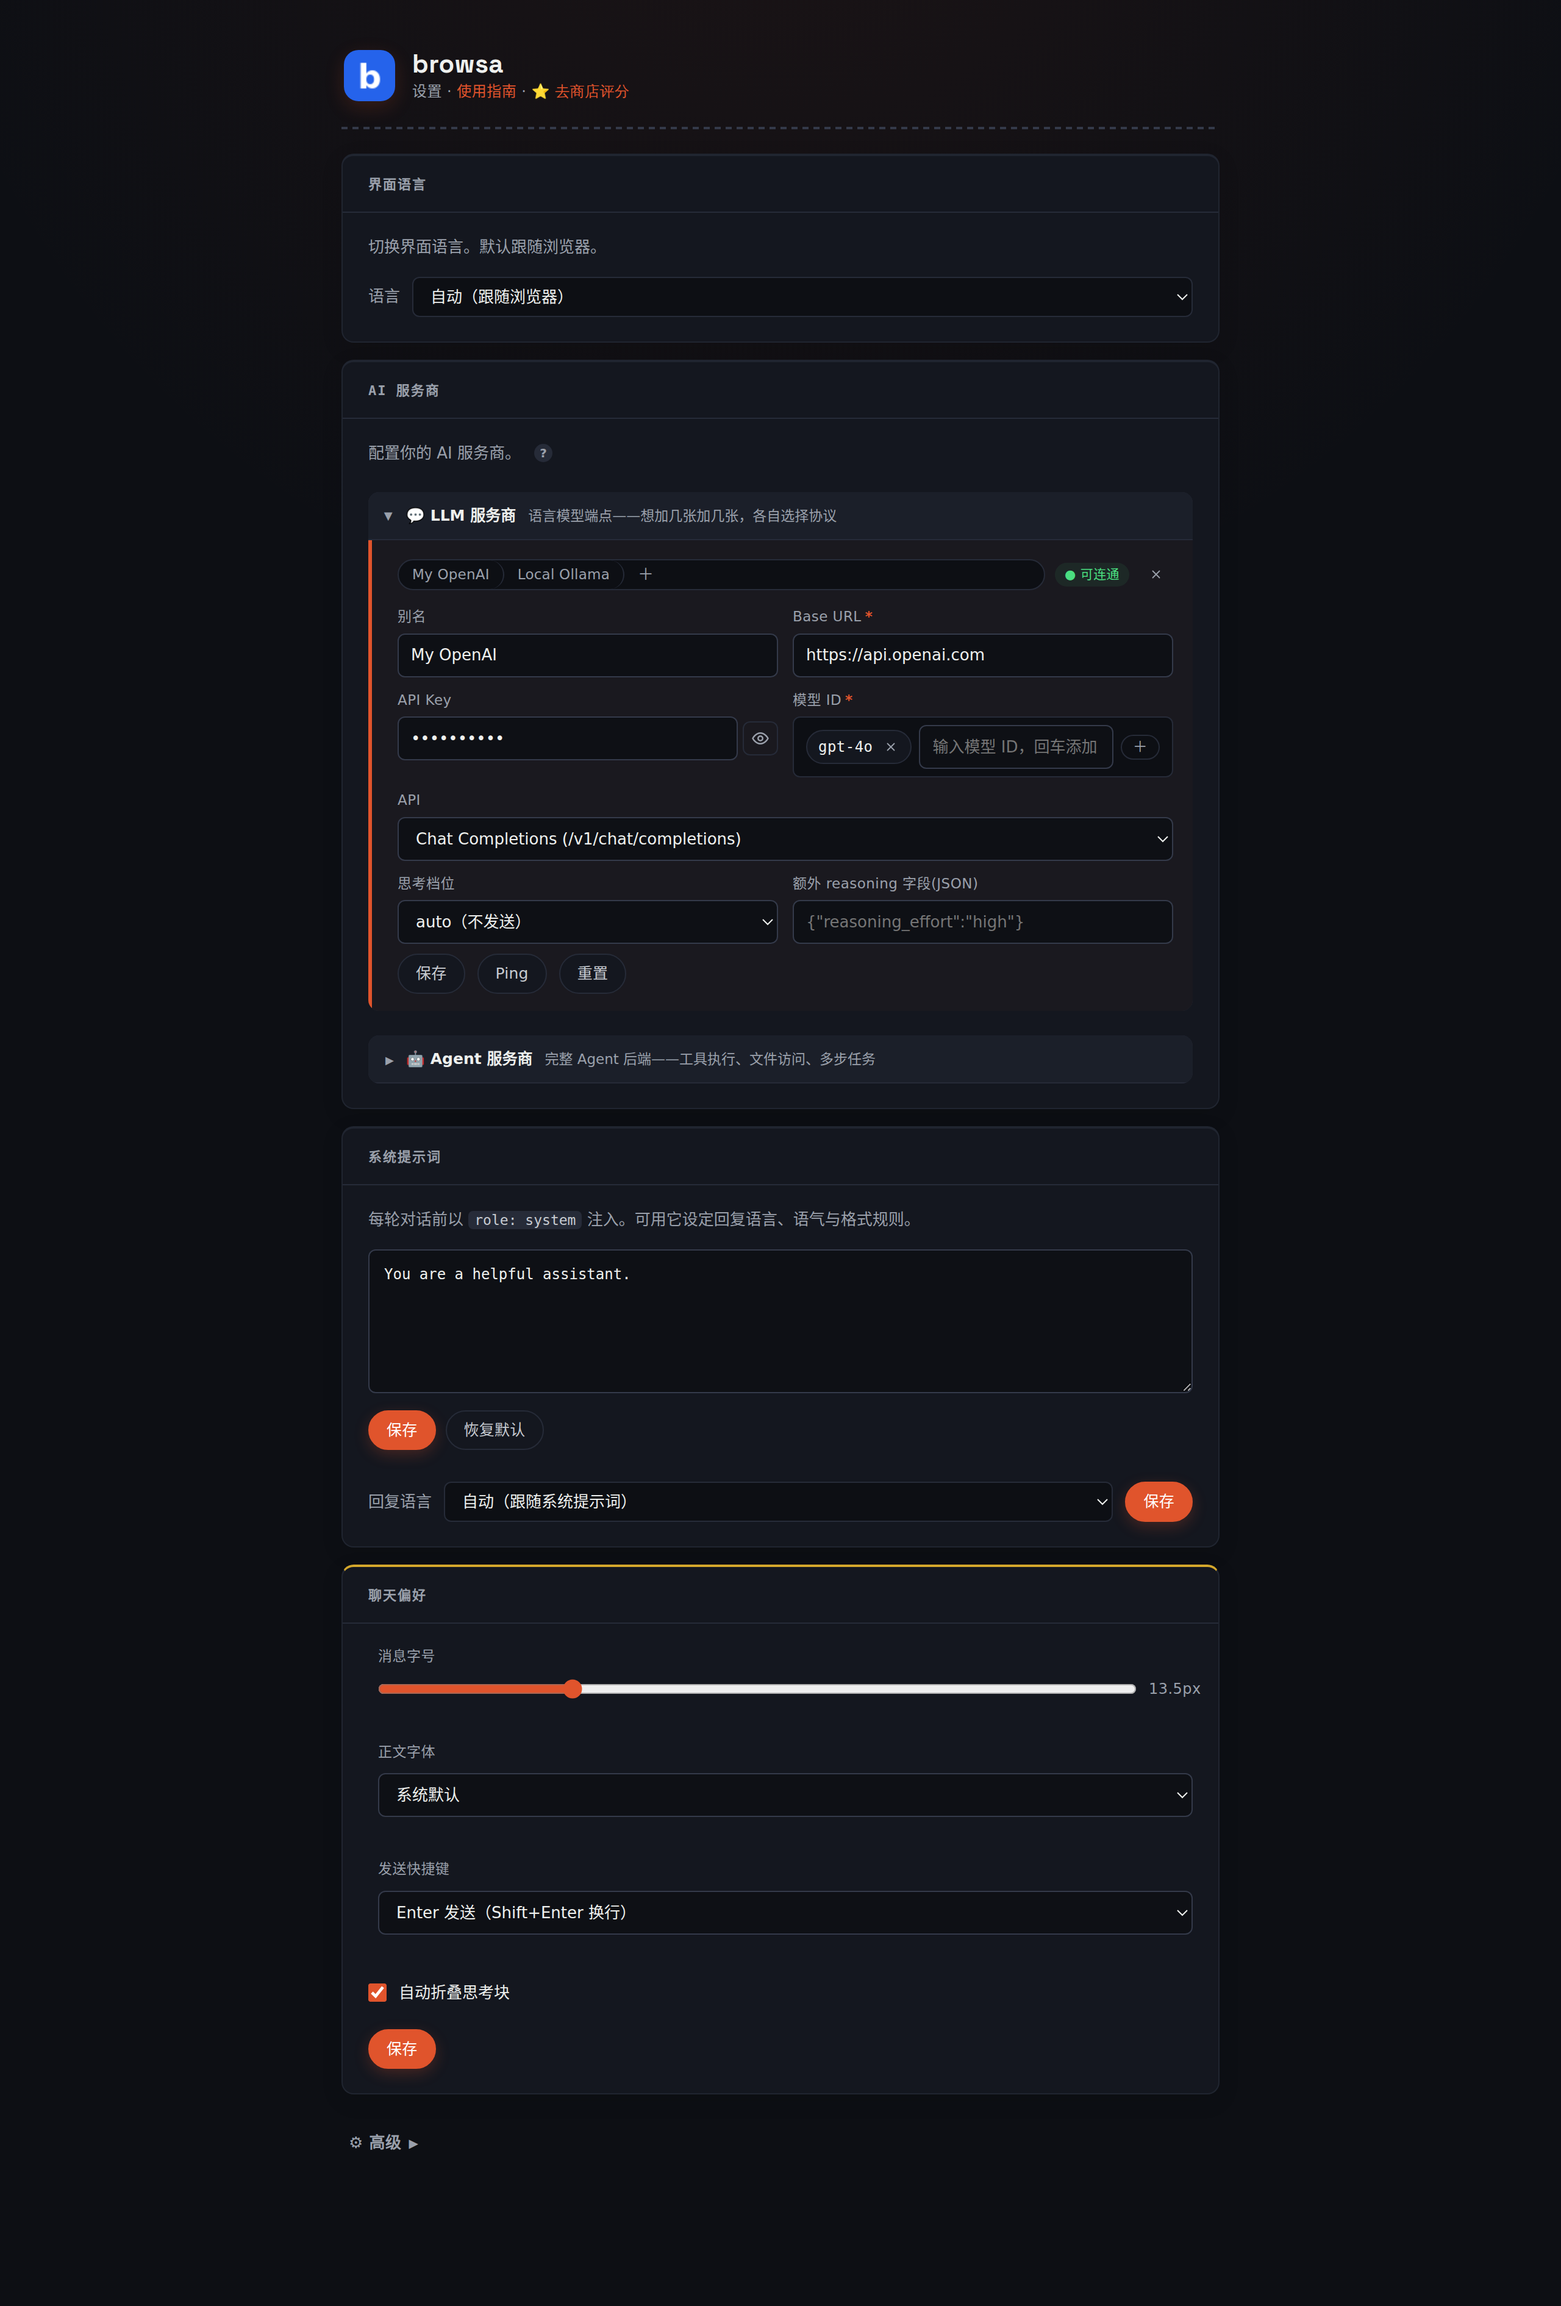
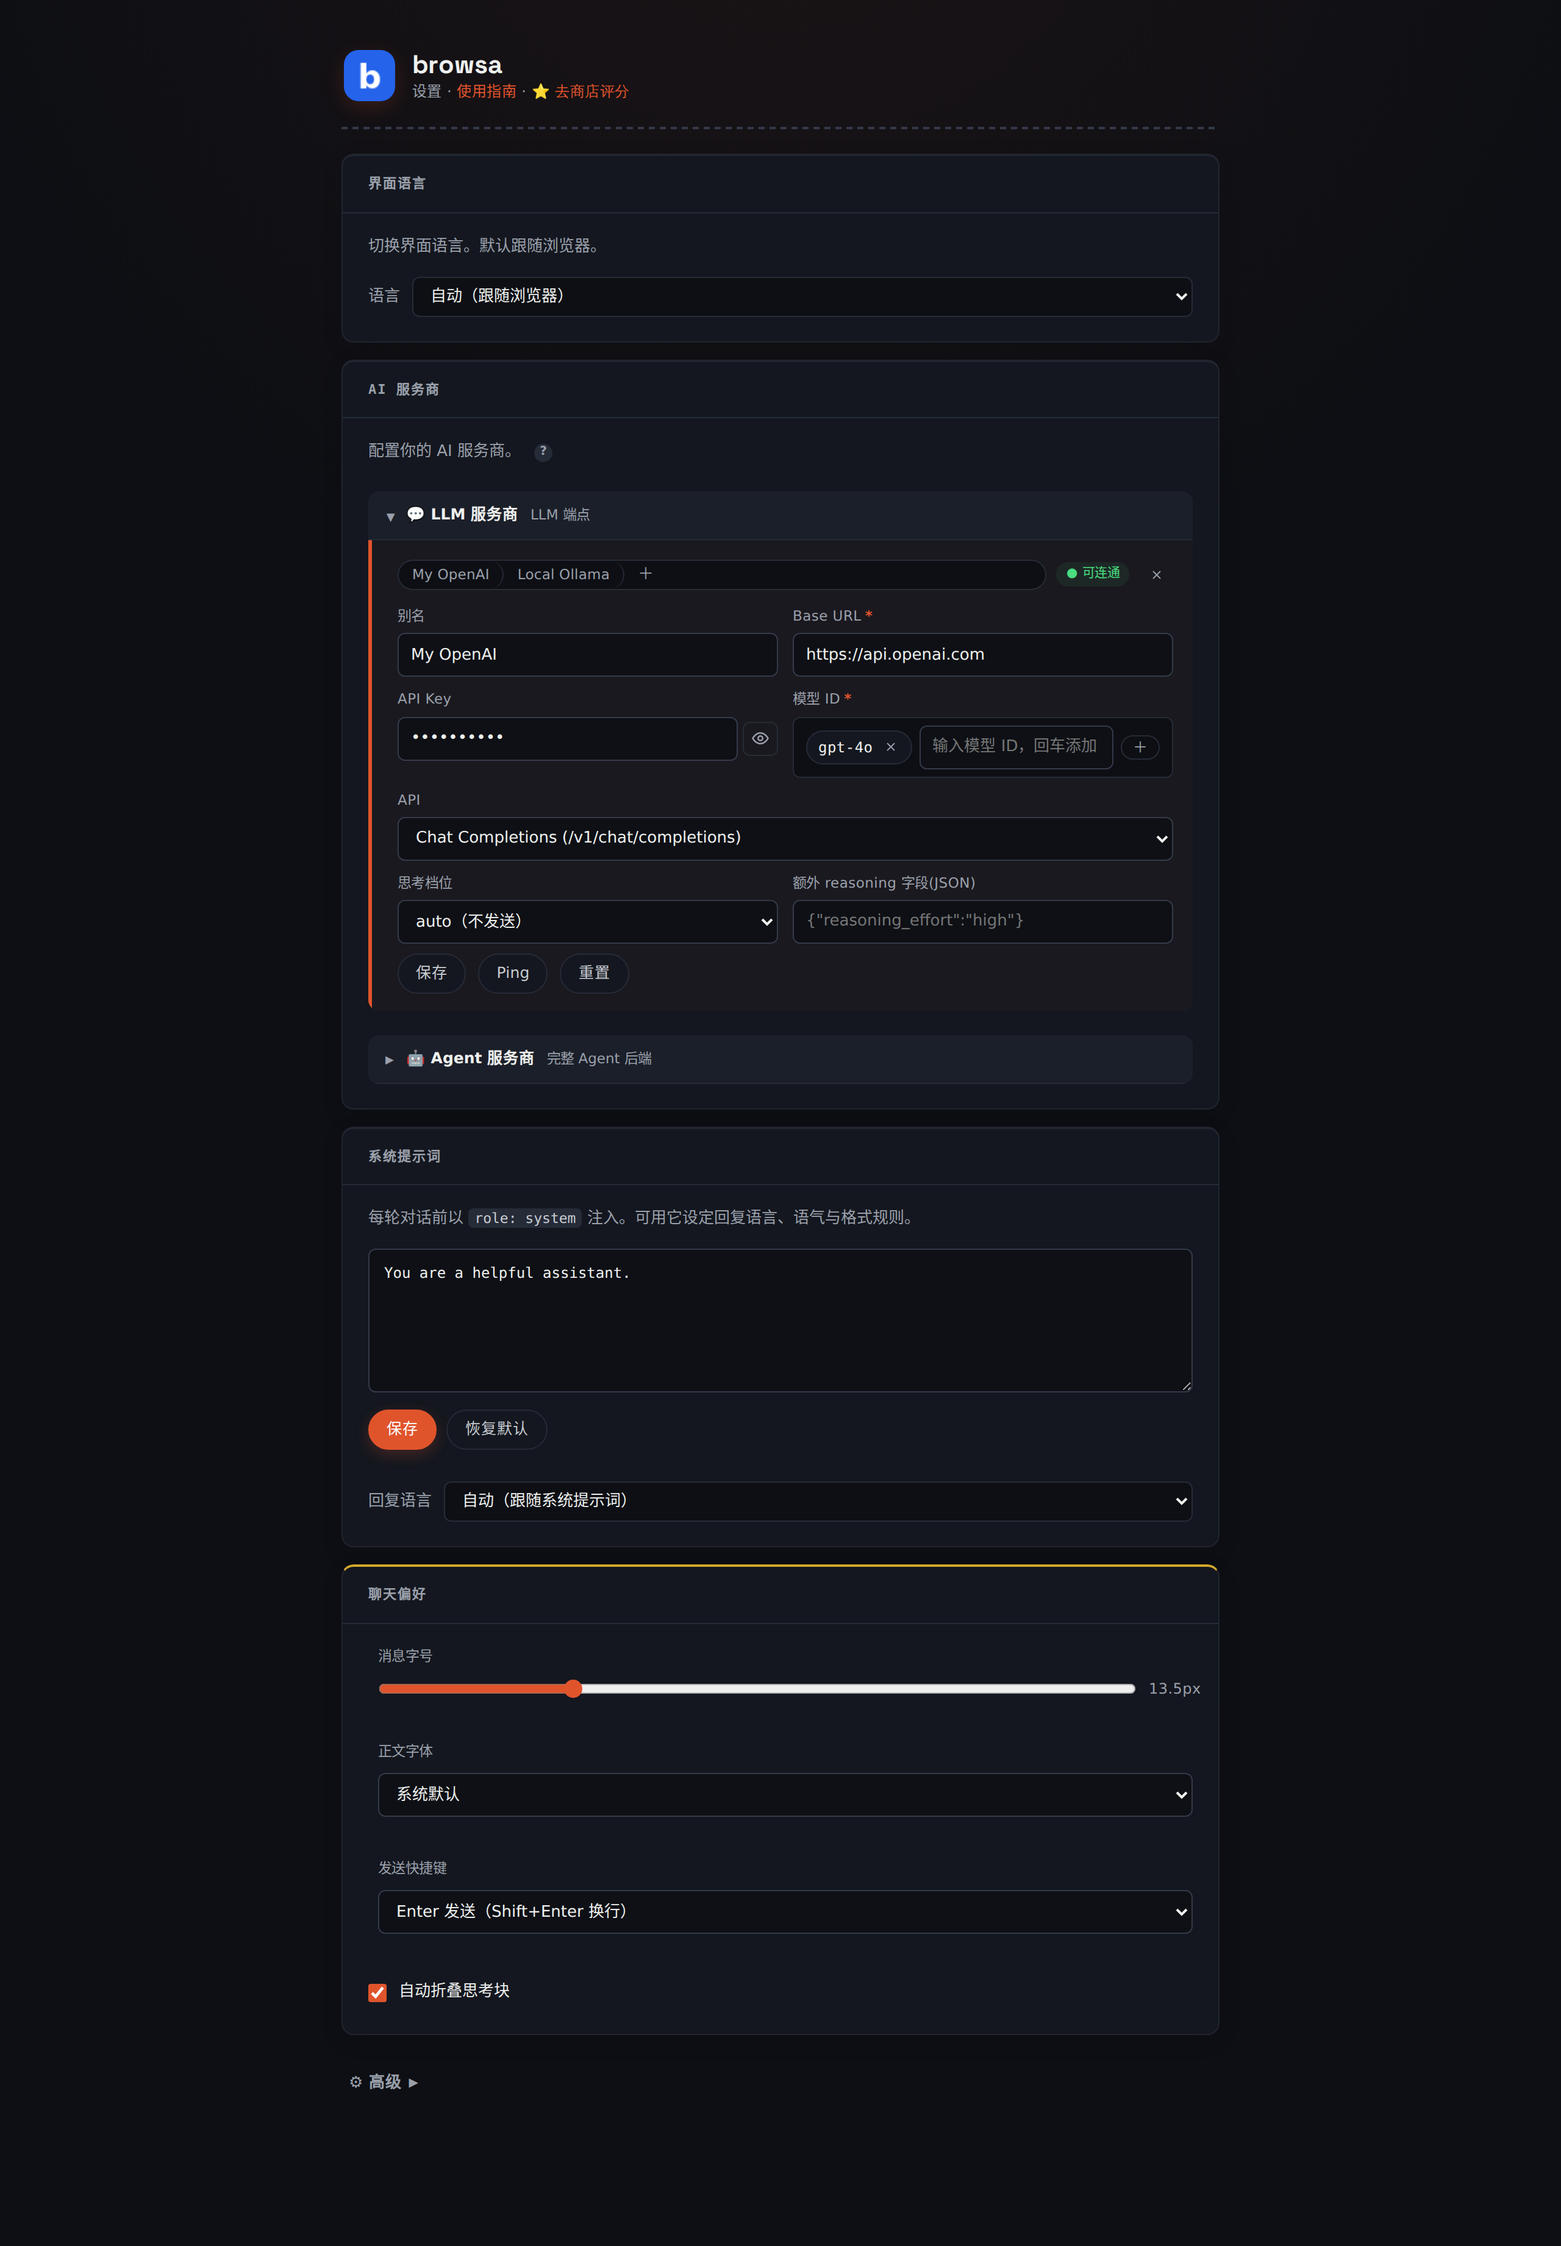
feat(panel): 设置页文案精简 + 回复语言/聊天偏好改即存
- AI 服务商两行描述收敛（LLM 专有名词保留，删营销腔尾注）——七语
  messages 同步、README 横幅源更新重渲（providers en/zh；hero 无涉还原）、
  guide 设置页截图按新布局同尺寸重摄
- 回复语言下拉、聊天偏好四控件（字号/字体/快捷键/自动折叠）改为改动即存，
  删除两个冗余保存按钮——与本页既有自动保存范式（界面语言、高级区开关）
  统一；显式保存只留给表单类（服务商卡/ASR 卡/系统提示词）
- saveChatPrefs 收敛为 saveChatPref(patch)，反馈走页面级 status

diff --git a/options.js b/options.js
@@ -105,14 +105,26 @@ async function init() {
     syncAsrProviderUI();
   });
 
-  // Chat preferences
+  // Chat preferences — 即时生效（2026-10-16 冗余清理）：开关/单选/滑杆改即存，
+  // 与本页既有的自动保存范式一致（界面语言下拉、悬浮工具条/llms.txt/深度提取
+  // 开关都是 change 即存）；显式保存只留给文本/多字段表单（系统提示词、服务商
+  // 卡、ASR 卡）。滑杆 input 只刷刻度，change（松手）才落存储。
   applyChatPrefs(cachedCfg);
-  document.querySelector('button[data-act="save-chat-prefs"]')?.addEventListener('click', saveChatPrefs);
   const fontSizeEl = $('fontSize');
   const fontSizeVal = $('fontSizeVal');
   if (fontSizeEl && fontSizeVal) {
     fontSizeEl.addEventListener('input', () => { fontSizeVal.textContent = fontSizeEl.value + 'px'; });
+    fontSizeEl.addEventListener('change', () => saveChatPref({ fontSize: parseFloat(fontSizeEl.value) || 13.5 }));
   }
+  $('fontFamily')?.addEventListener('change', (e) => saveChatPref({ fontFamily: e.target.value || 'system' }));
+  $('sendShortcut')?.addEventListener('change', (e) => saveChatPref({ sendShortcut: e.target.value || 'enter' }));
+  $('thoughtAutoCollapse')?.addEventListener('change', (e) => saveChatPref({ thoughtAutoCollapse: !!e.target.checked }));
+}
+
+async function saveChatPref(patch) {
+  await persist(patch);
+  Object.assign(cachedCfg, patch);
+  flash('ok', _t('savedFlash', '✓ Saved'));
 }
 
 // 使用指南链接随 UI 语言走：中文站 /guide/，英文站 /en/guide/。HTML 里已带
@@ -136,25 +148,6 @@ function applyChatPrefs(cfg) {  const fs = $('fontSize');
   const tac = $('thoughtAutoCollapse');
   // 勾选框反映实际行为：从未设置（undefined）= 默认折叠 = 勾上；显式取消才展开。
   if (tac) tac.checked = cfg.thoughtAutoCollapse !== false;
-}
-
-async function saveChatPrefs() {
-  let fs = parseFloat($('fontSize')?.value || '13.5');
-  if (!Number.isFinite(fs)) fs = 13.5; // empty/invalid range value → keep the default, don't store NaN
-  const ss = $('sendShortcut')?.value || 'enter';
-  const ff = $('fontFamily')?.value || 'system';
-  const tac = !!$('thoughtAutoCollapse')?.checked;
-  await persist({ fontSize: fs, fontFamily: ff, sendShortcut: ss, thoughtAutoCollapse: tac });
-  cachedCfg.fontSize = fs;
-  cachedCfg.fontFamily = ff;
-  cachedCfg.sendShortcut = ss;
-  cachedCfg.thoughtAutoCollapse = tac;
-  const statusEl = $('chat-prefs-status');
-  if (statusEl) {
-    statusEl.className = 'card-status ok';
-    statusEl.textContent = _t('savedFlash', '✓ Saved');
-    setTimeout(() => { statusEl.textContent = ''; statusEl.className = 'card-status'; }, 3000);
-  }
 }
 
 // ASR 卡片的下拉选项、占位符、? 提示、文档链接全部由 lib/asr-providers.js 的
@@ -1292,8 +1285,11 @@ function applyReplyLanguage() {
   const el = $('replyLanguage');
   if (!el) return;
   el.value = cachedCfg.replyLanguage || '';
-  document.querySelector('button[data-act="save-reply-language"]')?.addEventListener('click', async () => {
+  // 即时生效（2026-10-16 冗余清理）：与界面语言下拉同一范式——改即存，不再要
+  // 求单点保存（本卡片上方已有系统提示词自己的 Save/Reset，三键并存易误读）。
+  el.addEventListener('change', async () => {
     await storage.set({ replyLanguage: el.value });
+    cachedCfg.replyLanguage = el.value;
     flash('ok', el.value ? tSub('replyLanguageSet', `Reply language set to "$1".`, el.options[el.selectedIndex]?.text) : _t('replyLanguageAutoSet', 'Reply language: Auto.'));
   });
 }

diff --git a/dev-preview/banners/keys-en.html b/dev-preview/banners/keys-en.html
@@ -57,7 +57,7 @@ body{width:1280px;height:800px;overflow:hidden;position:relative;
   <p class="keys-sub">// no subscription · no markup · no telemetry</p>
   <div class="prov-board">
     <div class="pg">
-      <div class="pg-head"><span class="pg-caret">▼</span><span class="pg-title">💬 LLM Providers</span><span class="pg-desc">Language model endpoint — add as many as you like; each picks its own wire protocol</span></div>
+      <div class="pg-head"><span class="pg-caret">▼</span><span class="pg-title">💬 LLM Providers</span><span class="pg-desc">LLM endpoint</span></div>
       <div class="prov-card">
         <div class="agent-inner">
           <div class="agent-title-row">
@@ -78,7 +78,7 @@ body{width:1280px;height:800px;overflow:hidden;position:relative;
     </div>
 
     <div class="pg">
-      <div class="pg-head"><span class="pg-caret">▼</span><span class="pg-title">🤖 Agent Providers</span><span class="pg-desc">Full agent backend — tool execution, file access, multi-step tasks</span></div>
+      <div class="pg-head"><span class="pg-caret">▼</span><span class="pg-title">🤖 Agent Providers</span><span class="pg-desc">Full agent backend</span></div>
       <div class="prov-card agent">
         <div class="agent-inner">
           <div class="agent-title-row">

diff --git a/dev-preview/banners/keys-zh.html b/dev-preview/banners/keys-zh.html
@@ -57,7 +57,7 @@ body{width:1280px;height:800px;overflow:hidden;position:relative;
   <p class="keys-sub">// no subscription · no markup · no telemetry</p>
   <div class="prov-board">
     <div class="pg">
-      <div class="pg-head"><span class="pg-caret">▼</span><span class="pg-title">💬 LLM 服务商</span><span class="pg-desc">语言模型端点——想加几张加几张，各自选择协议</span></div>
+      <div class="pg-head"><span class="pg-caret">▼</span><span class="pg-title">💬 LLM 服务商</span><span class="pg-desc">LLM 端点</span></div>
       <div class="prov-card">
         <div class="agent-inner">
           <div class="agent-title-row">
@@ -78,7 +78,7 @@ body{width:1280px;height:800px;overflow:hidden;position:relative;
     </div>
 
     <div class="pg">
-      <div class="pg-head"><span class="pg-caret">▼</span><span class="pg-title">🤖 Agent 服务商</span><span class="pg-desc">完整 Agent 后端——工具执行、文件访问、多步任务</span></div>
+      <div class="pg-head"><span class="pg-caret">▼</span><span class="pg-title">🤖 Agent 服务商</span><span class="pg-desc">完整 Agent 后端</span></div>
       <div class="prov-card agent">
         <div class="agent-inner">
           <div class="agent-title-row">

diff --git a/options.html b/options.html
@@ -77,7 +77,6 @@
               <option value="fr">Français</option>
               <option value="es">Español</option>
             </select>
-            <button data-act="save-reply-language" class="primary" data-i18n="saveBtn">Save</button>
           </div>
         </div>
       </section>
@@ -116,10 +115,6 @@
             <input type="checkbox" id="thoughtAutoCollapse" />
             <span data-i18n="thoughtAutoCollapseLabel">Auto-collapse thinking blocks</span>
           </label>
-          <div class="card-actions">
-            <button data-act="save-chat-prefs" class="primary" data-i18n="saveBtn">Save</button>
-            <span id="chat-prefs-status" class="card-status"></span>
-          </div>
         </div>
       </section>
 
